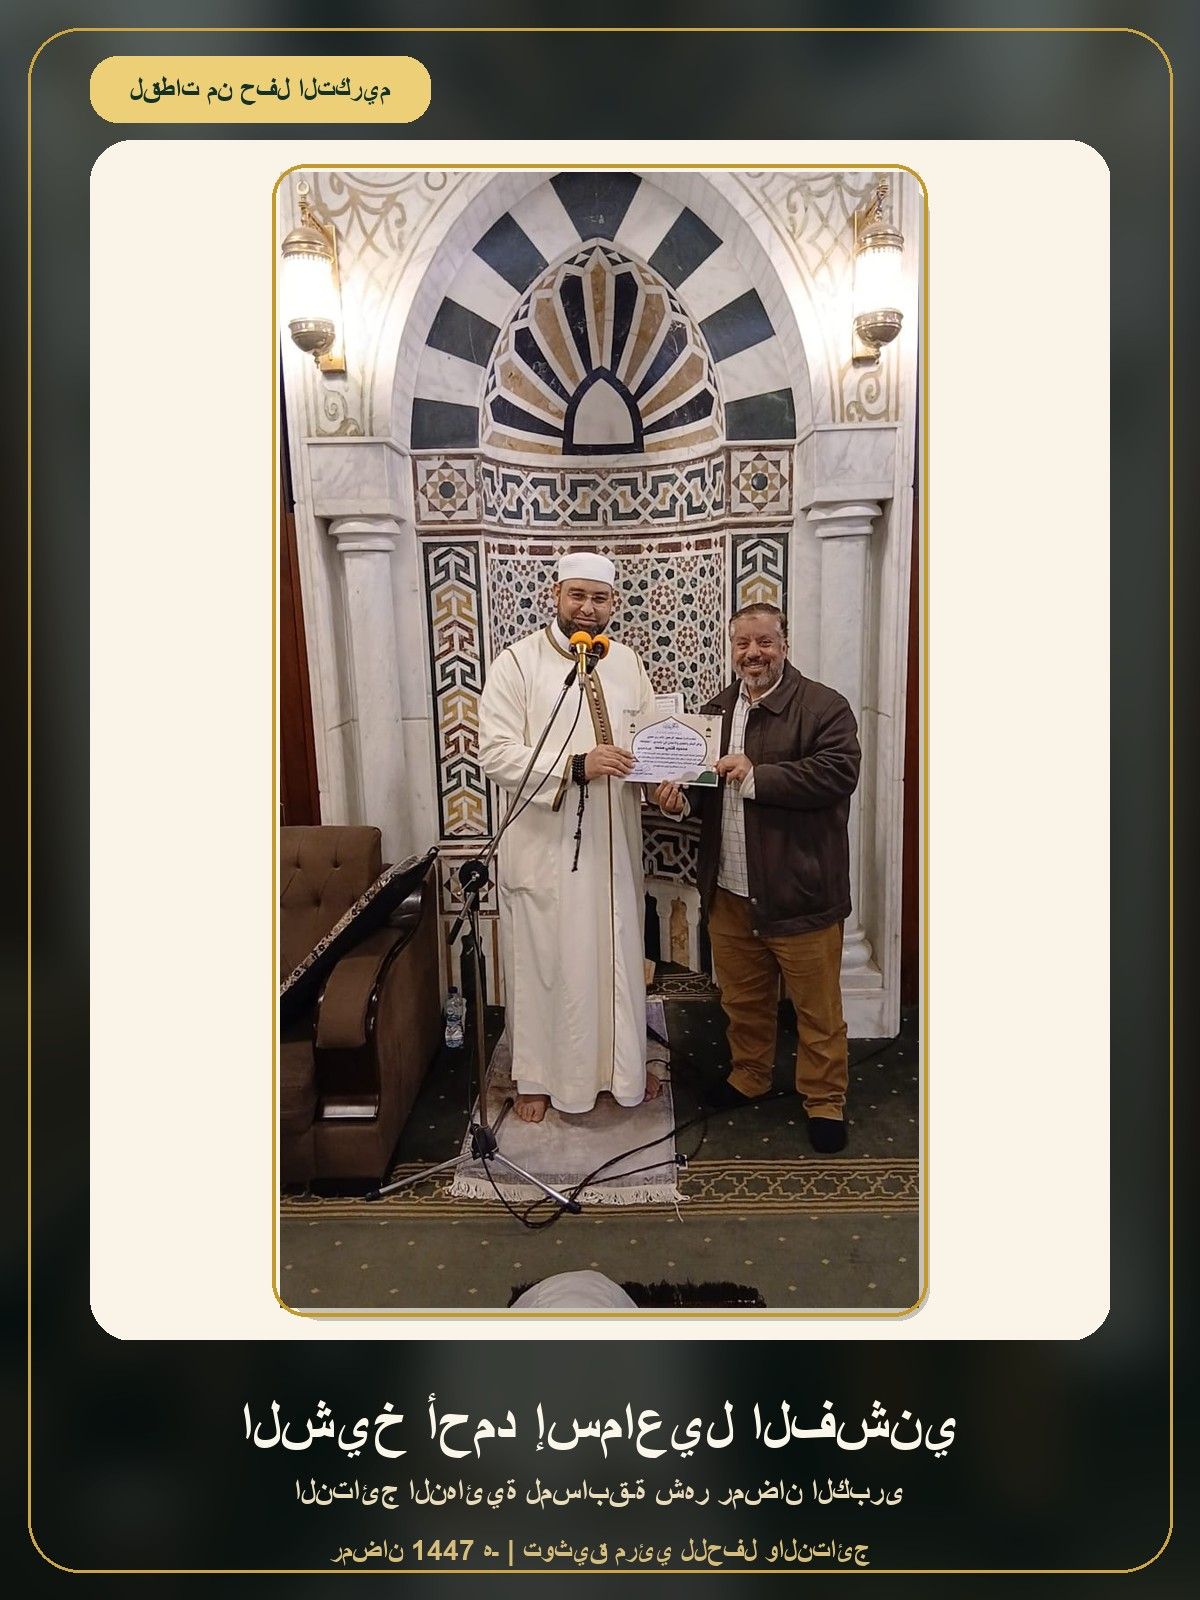
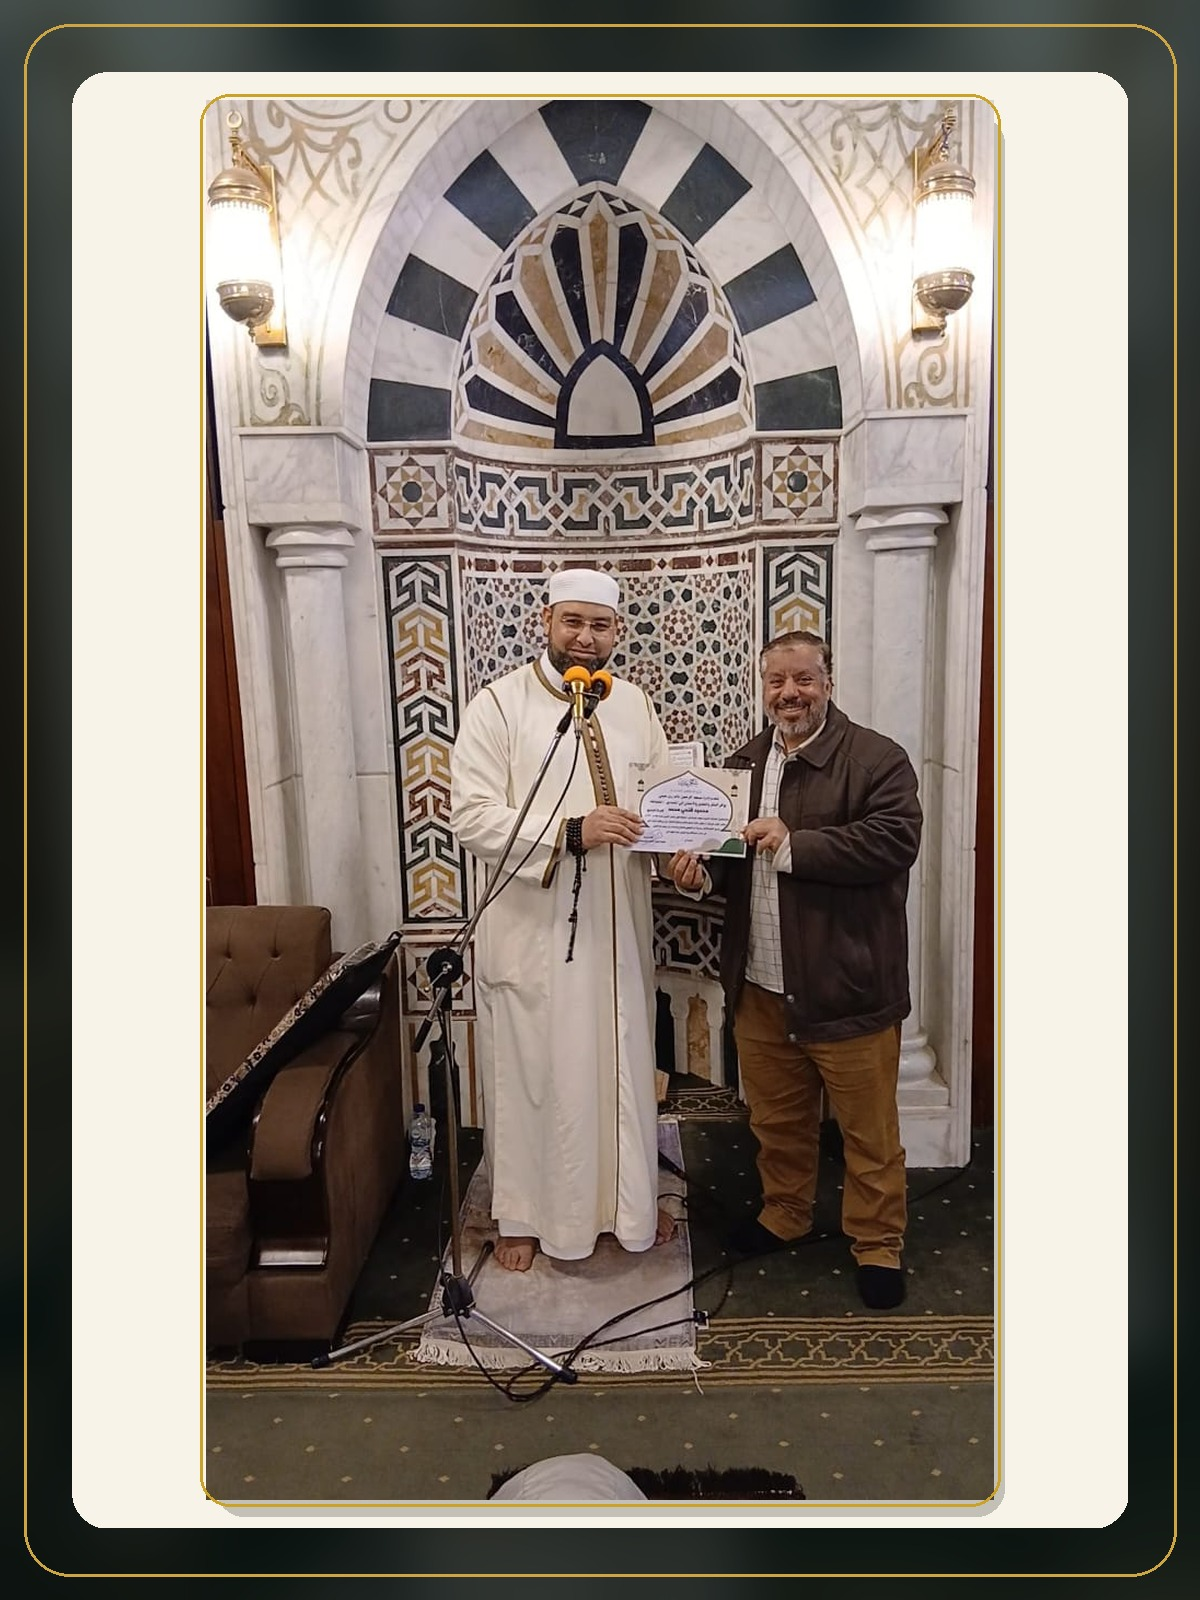
Clean Ramadan gallery captions

diff --git a/mosabka.js b/mosabka.js
@@ -34,46 +34,14 @@ document.addEventListener('DOMContentLoaded', async () => {
             watchUrl: 'https://youtu.be/3gtIKePc7Fs'
         },
         gallery: [
-            {
-                src: 'assets/mosabka-gallery/moments-01.jpg',
-                title: 'لقطات من حفل التكريم',
-                caption: 'افتتاح التوثيق البصري للحفل في قالب موحد ومهيأ للنشر.'
-            },
-            {
-                src: 'assets/mosabka-gallery/moments-02.jpg',
-                title: 'تكريم الفائزين',
-                caption: 'مشاهد احتفاء مميزة بالفائزين وأصحاب المراكز المتقدمة.'
-            },
-            {
-                src: 'assets/mosabka-gallery/moments-03.jpg',
-                title: 'بهجة الفوز',
-                caption: 'توثيق للحظات إعلان النتائج وتسليم الجوائز في أجواء مبهجة.'
-            },
-            {
-                src: 'assets/mosabka-gallery/moments-04.jpg',
-                title: 'فرحة الحضور',
-                caption: 'لقطات إنسانية تعبّر عن الامتنان والوفاء للمشاركين.'
-            },
-            {
-                src: 'assets/mosabka-gallery/moments-05.jpg',
-                title: 'الذكرى الطيبة',
-                caption: 'نسخة مصقولة من الصور الخام لتبقى مناسبة للأرشفة والمشاركة.'
-            },
-            {
-                src: 'assets/mosabka-gallery/moments-06.jpg',
-                title: 'مشاركات مميزة',
-                caption: 'زوايا مختارة من اليوم الختامي للمسابقة المباركة.'
-            },
-            {
-                src: 'assets/mosabka-gallery/moments-07.jpg',
-                title: 'روح المسابقة',
-                caption: 'معالجة لونية وإخراج بصري موحد يمنح الصور هوية أوضح.'
-            },
-            {
-                src: 'assets/mosabka-gallery/moments-08.jpg',
-                title: 'ختام الموسم',
-                caption: 'الصورة الختامية لسجل النتائج والتكريم في موسم رمضان ١٤٤٧ هـ.'
-            }
+            { src: 'assets/mosabka-gallery/moments-01.jpg' },
+            { src: 'assets/mosabka-gallery/moments-02.jpg' },
+            { src: 'assets/mosabka-gallery/moments-03.jpg' },
+            { src: 'assets/mosabka-gallery/moments-04.jpg' },
+            { src: 'assets/mosabka-gallery/moments-05.jpg' },
+            { src: 'assets/mosabka-gallery/moments-06.jpg' },
+            { src: 'assets/mosabka-gallery/moments-07.jpg' },
+            { src: 'assets/mosabka-gallery/moments-08.jpg' }
         ]
     };
 
@@ -424,13 +392,9 @@ function renderResultsGallery(container, images) {
     if (!container || !Array.isArray(images)) return;
 
     container.innerHTML = images.map((image, index) => `
-        <a class="results-gallery-card" href="${escapeHtml(image.src)}" target="_blank" rel="noopener noreferrer" aria-label="عرض ${escapeHtml(image.title)} بالحجم الكامل">
+        <a class="results-gallery-card" href="${escapeHtml(image.src)}" target="_blank" rel="noopener noreferrer" aria-label="عرض الصورة ${toArabicNumber(index + 1)} بالحجم الكامل">
             <span class="gallery-seq">${toArabicNumber(index + 1)}</span>
-            <img src="${escapeHtml(image.src)}" alt="${escapeHtml(image.title)}" loading="lazy">
-            <span class="gallery-overlay">
-                <strong>${escapeHtml(image.title)}</strong>
-                <small>${escapeHtml(image.caption)}</small>
-            </span>
+            <img src="${escapeHtml(image.src)}" alt="صورة من حفل التكريم ${toArabicNumber(index + 1)}" loading="lazy">
         </a>
     `).join('');
 }

diff --git a/mosabka.css b/mosabka.css
@@ -754,26 +754,6 @@
     box-shadow: 0 10px 18px rgba(20, 49, 41, 0.2);
 }
 
-.gallery-overlay {
-    position: absolute;
-    inset: auto 0 0;
-    z-index: 1;
-    display: grid;
-    gap: 0.35rem;
-    padding: 1rem;
-    color: #fffef8;
-    background: linear-gradient(180deg, transparent 0%, rgba(8, 26, 22, 0.35) 18%, rgba(8, 26, 22, 0.92) 100%);
-}
-
-.gallery-overlay strong {
-    font-size: 1rem;
-}
-
-.gallery-overlay small {
-    line-height: 1.7;
-    opacity: 0.88;
-}
-
 .perfect-score-header {
     position: relative;
     z-index: 1;

diff --git a/mosabka.html b/mosabka.html
@@ -137,7 +137,6 @@
                                 <span class="section-eyebrow">المعرض</span>
                                 <h3>لقطات مختارة من الحفل</h3>
                             </div>
-                            <p>نسخ معالجة باحترافية من صور التكريم لتظهر بصورة أنيقة ومتسقة داخل الصفحة.</p>
                         </div>
                         <div class="results-gallery-grid" id="resultsGalleryGrid"></div>
                     </div>
